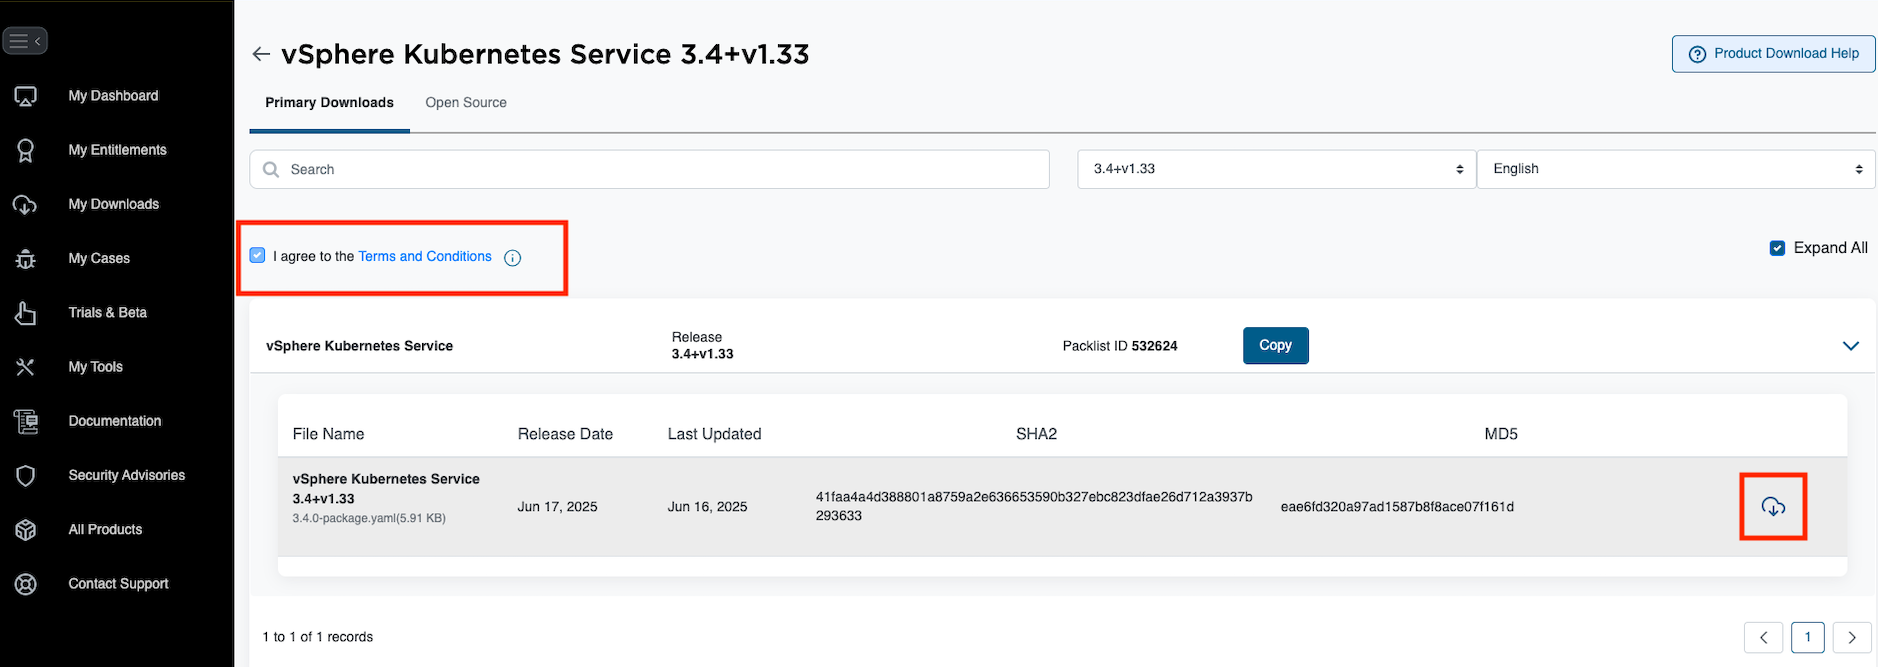
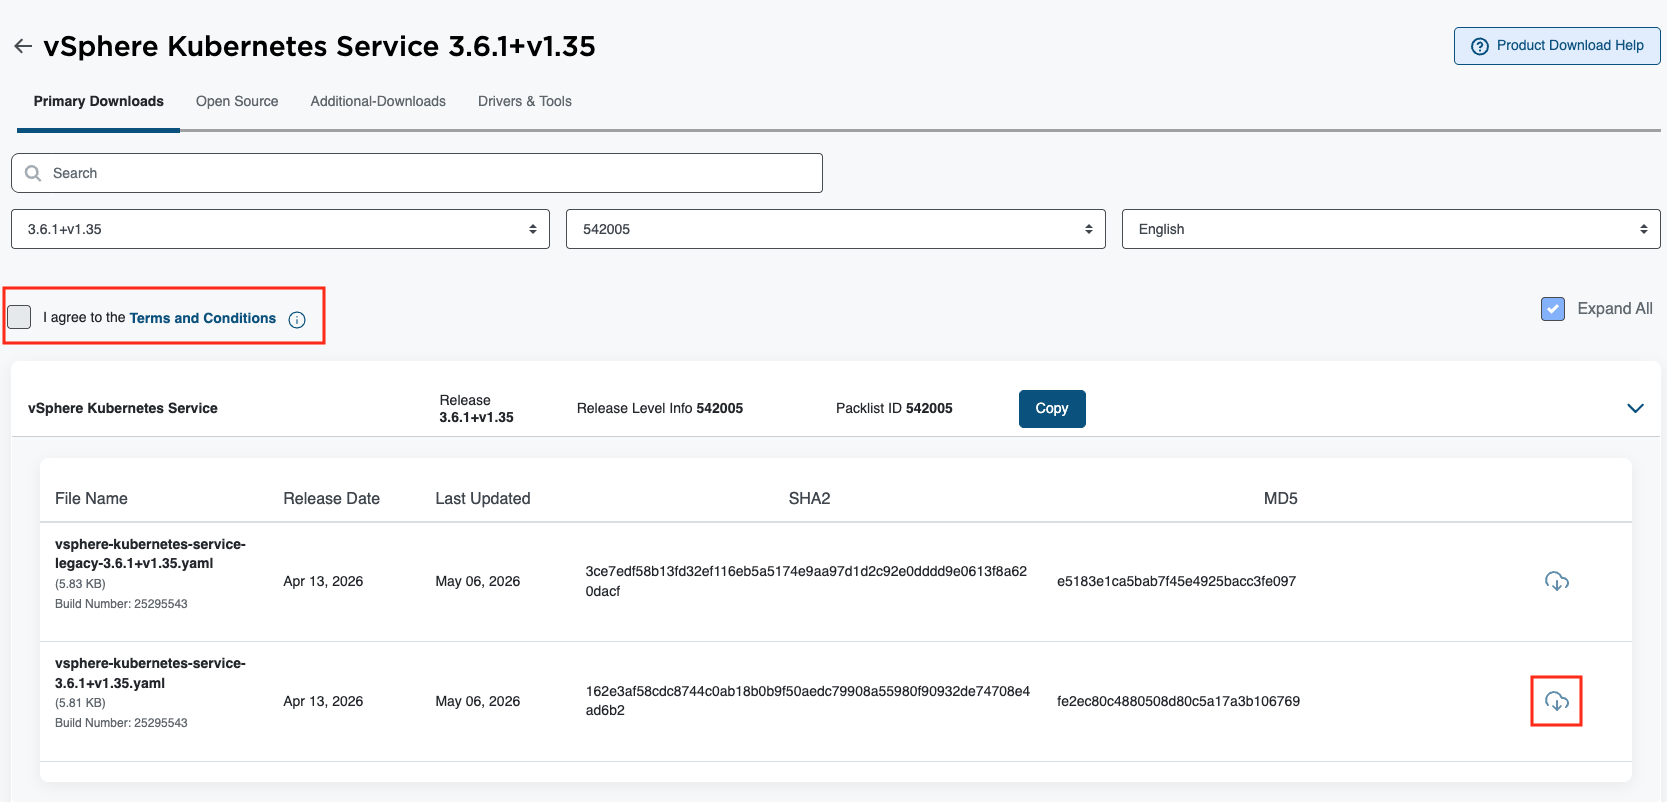
update supervisor service guide doc for 9.1.0

diff --git a/README.md b/README.md
@@ -12,6 +12,8 @@ Explore VCF services purpose-built to accelerate modern application delivery and
 
 #### Please refer to [How to find and install Supervisor Services](#how-to-find-and-install-supervisor-services) to find and install supervisor services.
 
+Starting VCF 9.1.0, the compatible service versions with which Supervisor versions can be found in [Interoperability Matrix](https://interopmatrix.broadcom.com/Interoperability).
+
 Prior to vSphere 8 Update 1, the Supervisor Services are only available with Supervisor Clusters enabled using VMware NSX-T. With vSphere 8 U1, Supervisor Services are also supported when using the vSphere Distributed Switch (VDS) networking stack.
 
 | Supervisor Service | vSphere 7 | vSphere 8 | VCF 9 |
@@ -38,18 +40,19 @@ Prior to vSphere 8 Update 1, the Supervisor Services are only available with Sup
 
 1. Log in to [support.broadcom.com](https://support.broadcom.com)
 
-2. Select `Enterprise Software` on the left hand side navigation.
+2. Select `Software` on the left hand side navigation, and click on `Enterprise Software`, then click on `My Downloads`.
 
 <img src="main.png" width="750" height="300"  title="Home" id="home">
 
 3. All services are entitled under VCF or legacy SKUs and can be downloaded directly from `My Downloads`.
-Select `My Downloads` on the left hand side navigation and search for `vSphere Supervisor Services`.
+Search for `vSphere Supervisor Services` under `My Downloads`.
 
 <img src="vcf-entitlement.png" width="750" height="300"  title="Home" id="home">
 
 4. If you are looking to download VMware Private AI Services, go to `My Downloads` and then search for `VMware Private AI Services`.
 
 5. Next navigate to the service of choice and version you are looking to install.
+#### Please check [Interoperability Matrix](https://interopmatrix.broadcom.com/Interoperability) to find out which service version is compatible with which Supervisor version.
 
 6. To download files, first you need to click `Terms and Conditions` to activate the checkbox.
 
@@ -61,11 +64,12 @@ Select `My Downloads` on the left hand side navigation and search for `vSphere S
 
 8. Click on the download icon on the service definition as well as any additional files (such as values.yaml files, etc.)
 
+> ⚠️ Services released with VCF 9.1.0 or later may include two YAML definitions: a 'legacy' version (file name contains word `legacy`) for pre-9.1.0 VCF deployments or air-gapped VCF environments, and a standard version for VCF 9.1.0+ deployments with VCF Software Depot supported.
+
 > ⚠️ Service configuration value fields may change for each version. If a `values.yaml` manifest is available under the selected service version, consider downloading it, editing it if needed, and providing it when installing or upgrading to that service version.
+<img src="legacy-download.png" width="750" height="300" title="How to Download legacy YAML" id="legacy-download">
 
 9. You can now proceed to install your service.
-
-#### Please check [Interoperability Matrix](https://interopmatrix.broadcom.com/Interoperability) to find out which service version is compatible with which Supervisor version.
 
 ## Supervisor Services Catalog
 
@@ -121,7 +125,7 @@ VMware vSphere Kubernetes Service (VKS, formerly known as the VMware Tanzu Kuber
 
 ### vSphere Kubernetes Service Versions
 
-The [Interoperability Matrix](https://interopmatrix.broadcom.com/Interoperability?col=820,18034,18430,18431,18448,18667,18589,18562,19031,19029,19027,19025&row=2,%261794,&isHidePatch=false&isHideLegacyReleases=false) shows each VKS version below, including compatible Kubernetes releases and the vCenter Server versions containing compatible Supervisor versions. Note that some compatible Kubernetes releases may have reached End of Service; refer to the [Product Lifecycle](https://support.broadcom.com/group/ecx/productlifecycle) tool (Division: "VMware Cloud Foundation", Product Name: "vSphere Kubernetes releases") to view End of Service dates for Kubernetes releases.
+The [Interoperability Matrix](https://interopmatrix.broadcom.com/Interoperability?col=820,18034,18430,18431,18448,18667,18589,18562,19031,19029,19027,19025&row=2,%261794,&isHidePatch=false&isHideLegacyReleases=false) shows each VKS version below, including compatible Kubernetes releases and the vCenter Server versions containing compatible Supervisor versions. Please refer to [VKS release notes doc](https://techdocs.broadcom.com/us/en/vmware-cis/vcf/vsphere-supervisor-services-and-standalone-components/latest/release-notes/vmware-tanzu-kubernetes-grid-service-release-notes.html#GUID-166807c0-799a-4122-a5de-59c5d158b3e3-en_id-04d505aa-c276-45f3-8c00-b0c3657a956c) for newer VKS releases. Note that some compatible Kubernetes releases may have reached End of Service; refer to the [Product Lifecycle](https://support.broadcom.com/group/ecx/productlifecycle) tool (Division: "VMware Cloud Foundation", Product Name: "vSphere Kubernetes releases") to view End of Service dates for Kubernetes releases.
 
 - VKS v3.4.0
   - [Release Notes](https://techdocs.broadcom.com/us/en/vmware-cis/vcf/vsphere-supervisor-services-and-standalone-components/latest/release-notes/vmware-tanzu-kubernetes-grid-service-release-notes.html#GUID-166807c0-799a-4122-a5de-59c5d158b3e3-en_id-e41377ae-b95a-4df2-8e72-f2424c8af0c3)